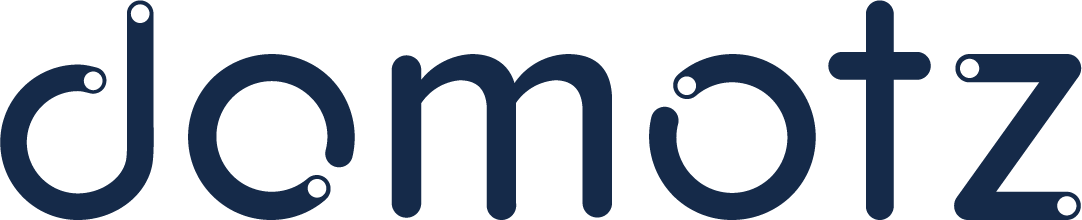
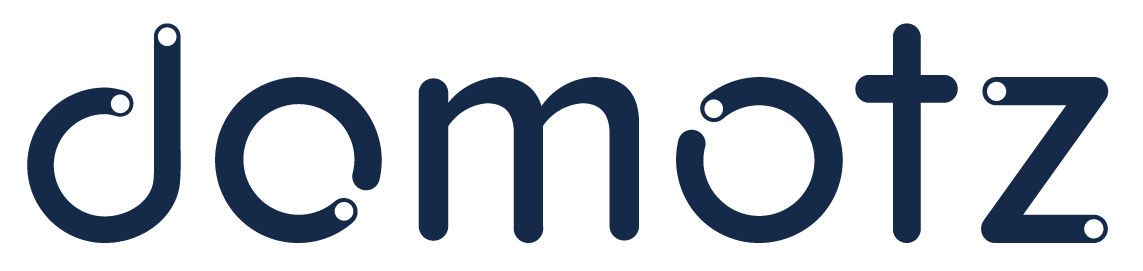
improved landing pages featured image scaling

Changed region(s): [[0.0, 0.0, 1.0, 1.0], [0.427, 0.8727, 0.488, 1.0]]

diff --git a/_layouts/page-landing-sponsors.html b/_layouts/page-landing-sponsors.html
@@ -2,7 +2,72 @@
 layout: default
 ---
 
-{% include site-header.html %}
+<header class="header">
+  <script type="text/javascript" src="{{ "/assets/scripts/jquery.min.js" | relative_url }}"></script>
+  <script type="text/javascript" src="{{ "/assets/scripts/bootstrap.min.js" | relative_url }}"></script>
+  
+    <script>
+   (function(i,s,o,g,r,a,m){i['GoogleAnalyticsObject']=r;i[r]=i[r]||function(){
+   (i[r].q=i[r].q||[]).push(arguments)},i[r].l=1*new Date();a=s.createElement(o),
+   m=s.getElementsByTagName(o)[0];a.async=1;a.src=g;m.parentNode.insertBefore(a,m)
+   })(window,document,'script','https://www.google-analytics.com/analytics.js','ga');
+
+   ga('create', 'UA-102422292-1', 'auto');
+   ga('send', 'pageview');
+
+  </script>
+
+{% assign feature_text = page.feature_text %}
+{% assign feature_image = page.feature_image %}
+{% assign image_source = page.image_source %}
+{% if page.collectionpage %}
+  {% assign collectiondata = site.collections | where: "label", page.collectionpage | first %}
+  {% assign feature_text = collectiondata.feature_text %}
+  {% assign feature_image = collectiondata.feature_image %}
+  {% assign image_source = collectiondata.image_source %}
+{% endif %}
+
+<div class="container-fluid">
+  <div class="row">
+    <div class="col-xs-6 col-sm-6 vertical-align">
+      <a style="color:inherit; text-decoration: none !important; display: flex;" href="/">
+        <img style="width: 75px; margin-right: 5px;" src="{{ '/assets/images/microservices.svg' | relative_url }}" alt="">
+        <div style="display: inline-block;">
+          <h2 style="margin-bottom:0px">Microservices 2023</h2>
+          <p>{{ site.header.city }}, {{ site.header.dates }}</p>
+        </div>
+      </a>
+    </div>
+    <div class="col-xs-6 col-sm-6 vertical-align">
+      <div class="col-xs-5 col-xs-offset-7 col-sm-offset-10 col-sm-2"><ul style="list-style-type:none; margin:0; padding:0; overflow:hidden;">
+        <li style="float:right;">
+          <a style="display:block; color:inherit; text-decoration:none !important;" href="https://microservices.community/e/{{ site.community_badge.token }}">
+            <img class="img-responsive" style="position:absolute; top:10px; z-index:10; right:5px; transform: rotate(25deg);" src="https://microservices.community/assets/images/badges/{{ site.community_badge.asset }}" alt="">
+          </a>
+        </li>
+      </ul></div>
+    </div>
+  </div>
+</div>
+{% if feature_text or feature_image %}
+  <div class="text-center">
+    <img src="{%- if feature_image contains 'http' -%} {{ feature_image }} {%- else -%} {{ '/assets/images/' | append: feature_image | relative_url }} {%- endif -%}" style="max-width:800px;width:100%"  class="rounded">
+       {% if image_source %}
+	  <div style="position: absolute; bottom: 8px; left: 16px; color:white;">Source: {{ image_source }}</div>
+	  {% endif %}
+      <div class="mycontainer  typeset">
+        {{ feature_text | markdownify }}
+      </div>
+  </div>
+{% endif %}
+
+  <div class="mycontainer">
+      
+    {% include nav-header.html %}
+
+  </div>
+
+</header>
 
 <main class="main container">
 

diff --git a/rjcsoft.md b/rjcsoft.md
@@ -1,7 +1,7 @@
 ---
 title: RJC Soft
 layout: page-landing-sponsors
-feature_image: "/supporters/rjcsoft.png"
+feature_image: "/supporters/rjcsoftBanner.png"
 # image_source:
 ---
 

diff --git a/domotz.md b/domotz.md
@@ -1,7 +1,7 @@
 ---
 title: Domotz
 layout: page-landing-sponsors
-feature_image: "/supporters/domotz.png"
+feature_image: "/supporters/domotzBanner.png"
 # image_source:
 ---
 
